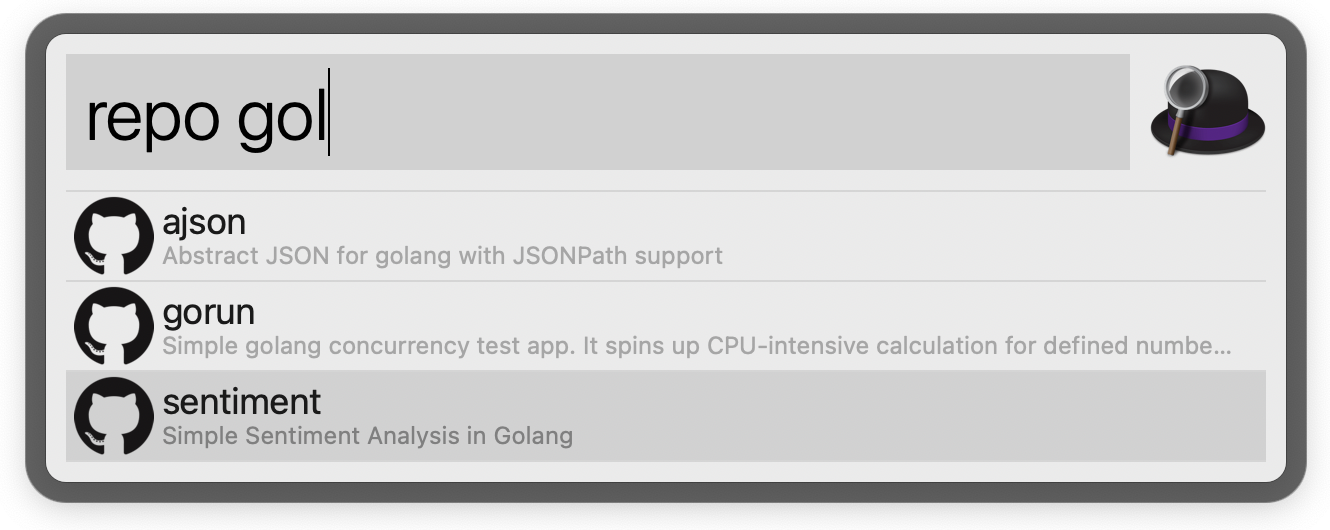
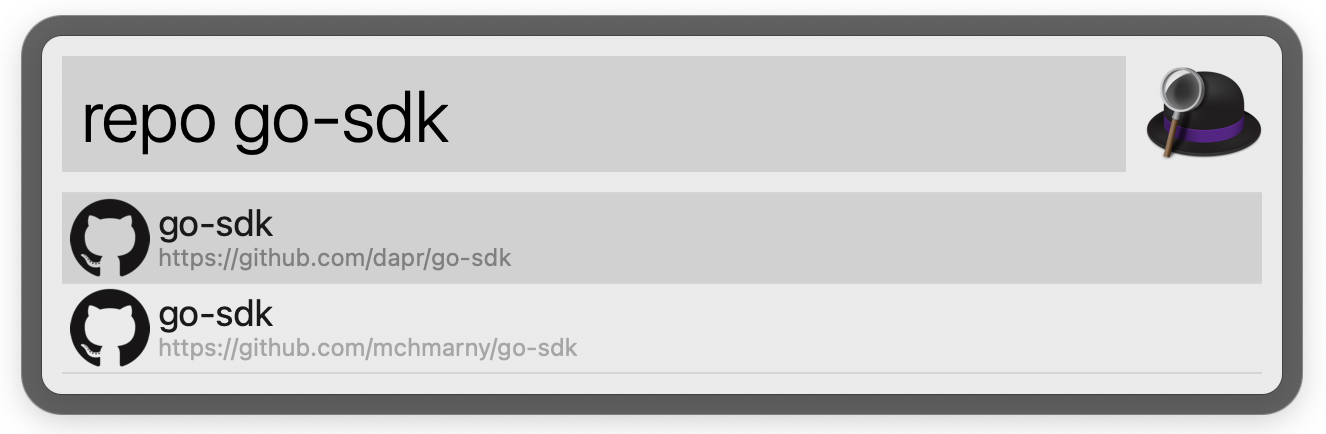
new subtitle

diff --git a/src/repo.go b/src/repo.go
@@ -94,7 +94,7 @@ func writeRepoList(client *github.Client, path string) error {
 			Arg:      r.GetHTMLURL(),
 			UID:      r.GetID(),
 			Title:    r.GetName(),
-			Subtitle: r.GetDescription(),
+			Subtitle: r.GetHTMLURL(),
 		}
 		items = append(items, i)
 	}
